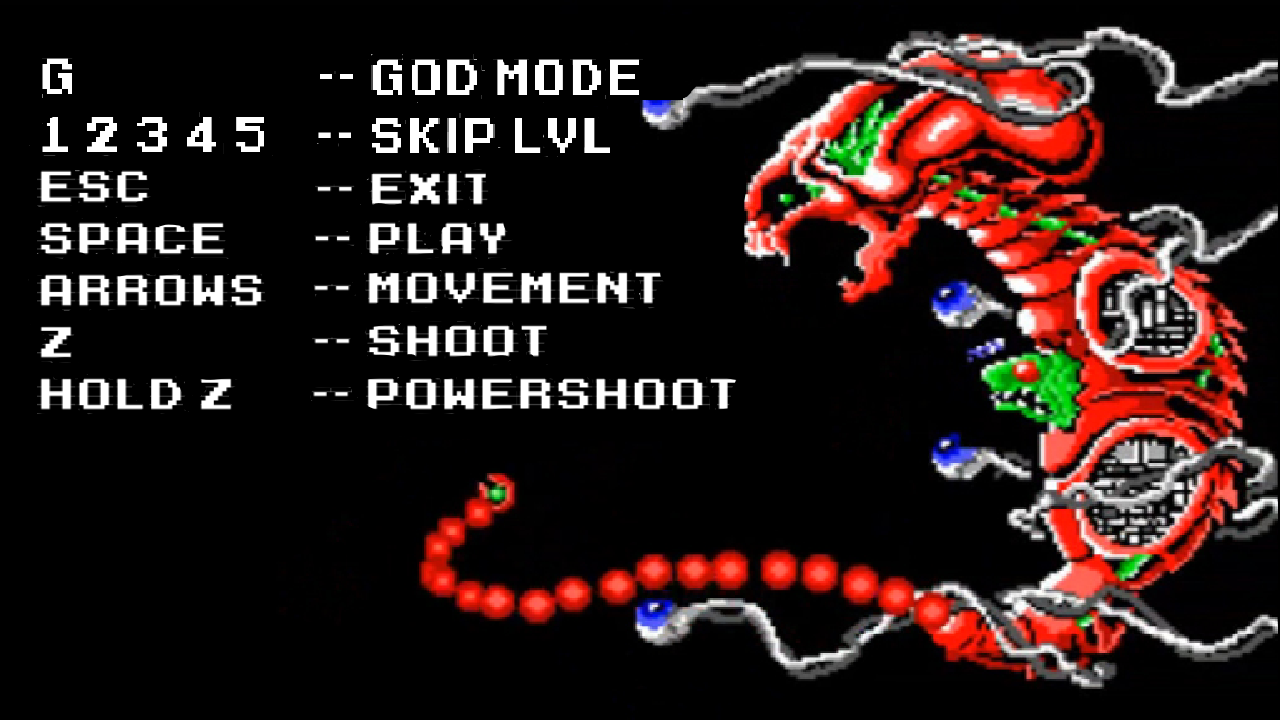
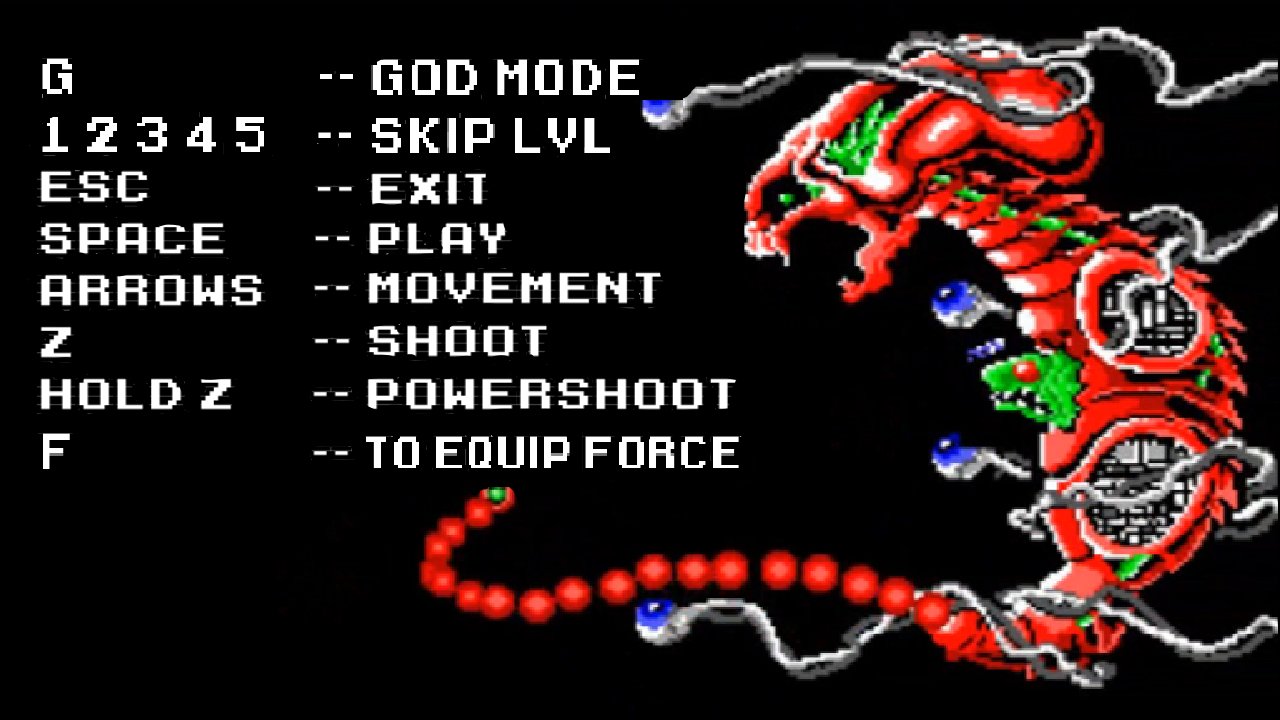
añadido force

Changed region(s): [[0.25, 0.5806, 0.5938, 0.7028], [0.0312, 0.5806, 0.0625, 0.6417]]

diff --git a/2DGame/02-Bubble/02-Bubble/Force.cpp b/2DGame/02-Bubble/02-Bubble/Force.cpp
@@ -20,7 +20,7 @@ void Force::init(const glm::ivec2& tileMapPos, ShaderProgram& shaderProgram)
 {
 	spritesheet.loadFromFile("images/force.png", TEXTURE_PIXEL_FORMAT_RGBA);
 	sprite = Sprite::createSprite(glm::ivec2(23, 20), glm::vec2(33 / 269.f, 25 / 505.f), &spritesheet, &shaderProgram);
-	sprite->setNumberAnimations(3);
+	sprite->setNumberAnimations(1);
 
 	sprite->setAnimationSpeed(NORMAL, 8);
 	sprite->addKeyframe(NORMAL, glm::vec2(10 / 269.f, 43 / 505.f));
@@ -31,17 +31,9 @@ void Force::init(const glm::ivec2& tileMapPos, ShaderProgram& shaderProgram)
 	sprite->addKeyframe(NORMAL, glm::vec2(76 / 269.f, 43 / 505.f));
 	sprite->addKeyframe(NORMAL, glm::vec2(109 / 269.f, 43 / 505.f));
 	sprite->addKeyframe(NORMAL, glm::vec2(109 / 269.f, 43 / 505.f));
-	sprite->setCharge(true);
+	sprite->setLoopAnimations(true),
 
-	sprite->setAnimationSpeed(VERTICALSHOOTS, 8);
-	sprite->addKeyframe(VERTICALSHOOTS, glm::vec2(33 * 0 / 269.f, 25 / 505.f));
-	sprite->addKeyframe(VERTICALSHOOTS, glm::vec2(33 * 1 / 269.f, 25 / 505.f));
-	sprite->addKeyframe(VERTICALSHOOTS, glm::vec2(33 * 2 / 269.f, 25 / 505.f));
-
-	sprite->setAnimationSpeed(DOUBLESHOOT, 8);
-	sprite->addKeyframe(DOUBLESHOOT, glm::vec2(33 * 0 / 269.f, 25 / 505.f));
-	sprite->addKeyframe(DOUBLESHOOT, glm::vec2(33 * 5 / 269.f, 25 * 2 / 505.f));
-	sprite->addKeyframe(DOUBLESHOOT, glm::vec2(33 * 4 / 269.f, 25 * 2 / 505.f));
+	
 
 
 

diff --git a/2DGame/02-Bubble/02-Bubble/MapScene.cpp b/2DGame/02-Bubble/02-Bubble/MapScene.cpp
@@ -659,5 +659,7 @@ float MapScene::getLeft()
 
 
 void MapScene::putforce() {
+	force->setinscreen(!force->inScreen());
 	force->setTaken(!force->istaken());
+	
 }

diff --git a/2DGame/02-Bubble/02-Bubble/Game.cpp b/2DGame/02-Bubble/02-Bubble/Game.cpp
@@ -173,7 +173,7 @@ void Game::keyReleased(int key)
 				
 			}
 		}
-		if (key == 97) {
+		if (key == 102) {
 			mapScene.putforce();
 		}
 		break;
